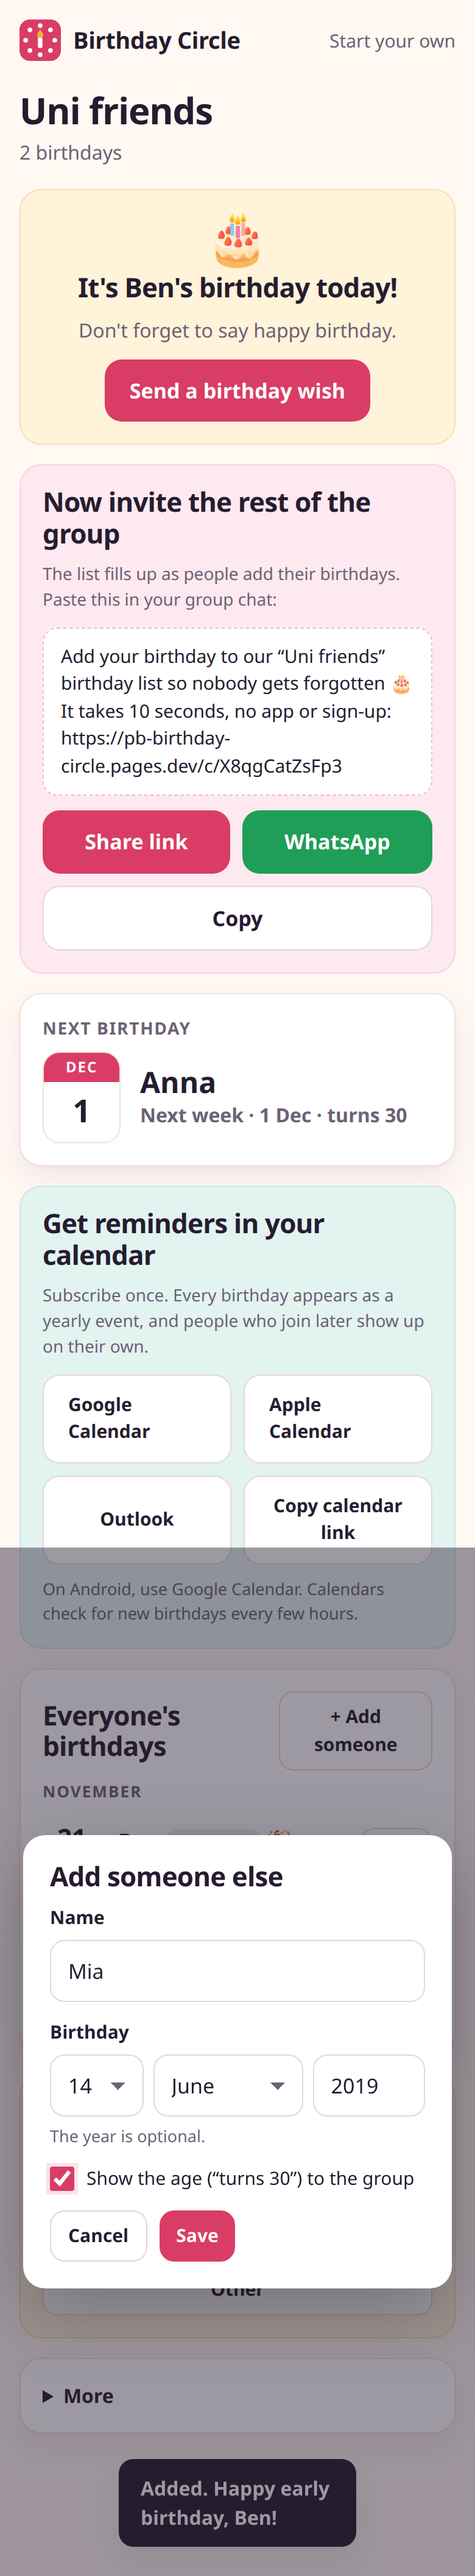
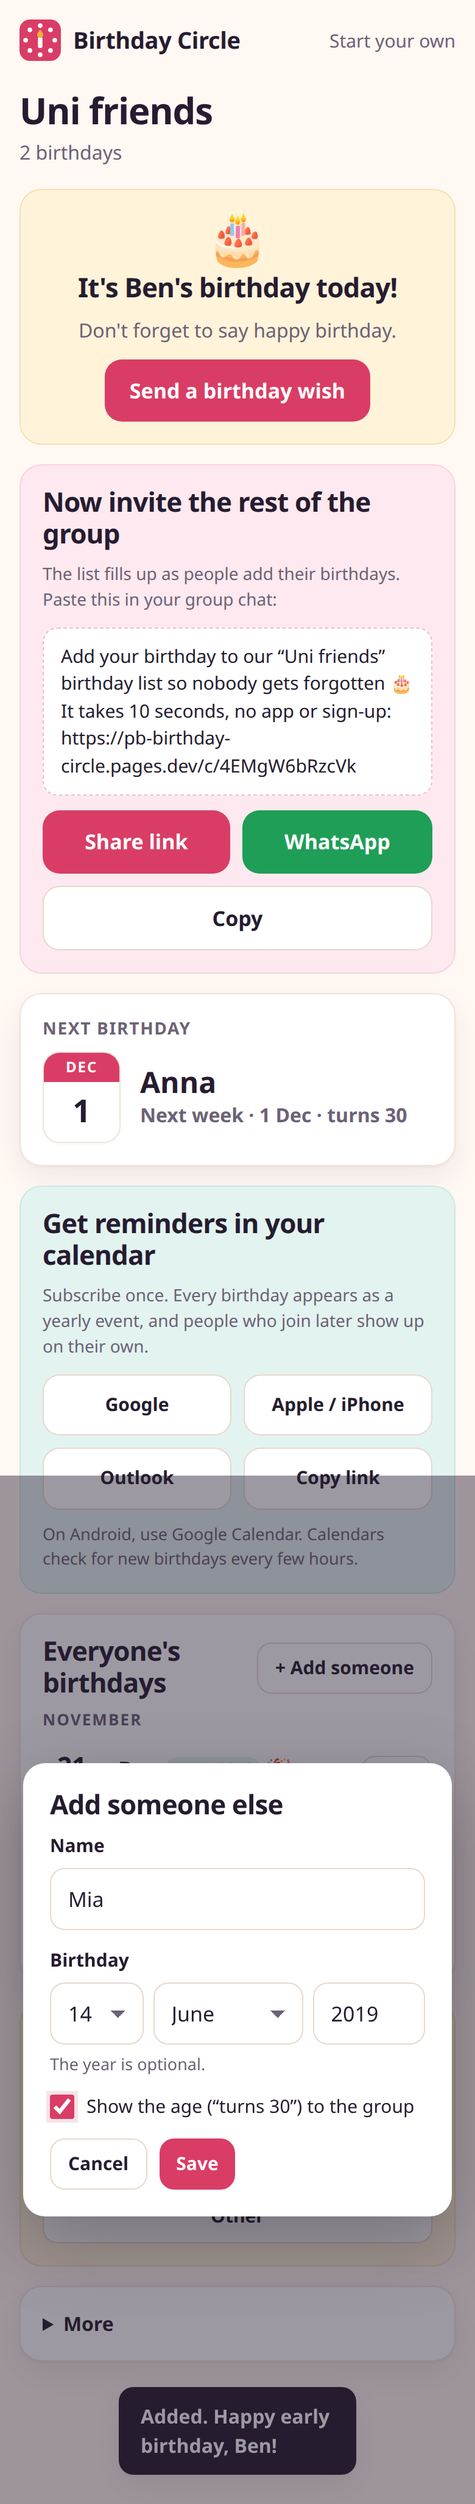
Phone layout fixes, launch notes in VENTURE.md

diff --git a/docs/app.css b/docs/app.css
@@ -82,7 +82,7 @@ input:focus, select:focus { outline: none; border-color: var(--accent); box-shad
 .btn.block { width: 100%; }
 .btn.ghost { background: #fff; color: var(--ink); border: 1.5px solid #e6d8ce; }
 .btn.ghost:hover { background: #fdf4ef; }
-.btn.small { font-size: 15px; padding: 9px 14px; min-height: 42px; border-radius: 12px; }
+.btn.small { white-space: nowrap; font-size: 15px; padding: 9px 14px; min-height: 42px; border-radius: 12px; }
 .btn.whatsapp { background: #1f9e57; }
 .btn.whatsapp:hover { background: #17864a; }
 .linkbtn { background: none; border: 0; padding: 0; font: inherit; color: var(--accent-dark); text-decoration: underline; cursor: pointer; }
@@ -143,7 +143,7 @@ input:focus, select:focus { outline: none; border-color: var(--accent); box-shad
 #shareCard.compact .share-hint, #shareCard.compact .share-text { display: none; }
 #shareCard.compact .btn { font-size: 15px; min-height: 42px; padding: 9px 14px; }
 .cal-buttons { display: grid; grid-template-columns: 1fr 1fr; gap: 10px; margin-bottom: 10px; }
-.cal-buttons .btn { font-size: 15px; }
+.cal-buttons .btn { font-size: 15px; white-space: nowrap; }
 .toast { position: fixed; left: 50%; bottom: 24px; transform: translateX(-50%); background: var(--ink); color: #fff; padding: 12px 18px; border-radius: 12px; font-weight: 600; z-index: 50; box-shadow: var(--shadow); max-width: calc(100% - 32px); }
 dialog { border: 0; border-radius: var(--radius); padding: 22px; width: min(480px, calc(100% - 24px)); box-shadow: 0 20px 60px rgba(0,0,0,.25); color: var(--ink); }
 dialog::backdrop { background: rgba(38, 28, 48, .45); }

diff --git a/public/app.css b/public/app.css
@@ -82,7 +82,7 @@ input:focus, select:focus { outline: none; border-color: var(--accent); box-shad
 .btn.block { width: 100%; }
 .btn.ghost { background: #fff; color: var(--ink); border: 1.5px solid #e6d8ce; }
 .btn.ghost:hover { background: #fdf4ef; }
-.btn.small { font-size: 15px; padding: 9px 14px; min-height: 42px; border-radius: 12px; }
+.btn.small { white-space: nowrap; font-size: 15px; padding: 9px 14px; min-height: 42px; border-radius: 12px; }
 .btn.whatsapp { background: #1f9e57; }
 .btn.whatsapp:hover { background: #17864a; }
 .linkbtn { background: none; border: 0; padding: 0; font: inherit; color: var(--accent-dark); text-decoration: underline; cursor: pointer; }
@@ -143,7 +143,7 @@ input:focus, select:focus { outline: none; border-color: var(--accent); box-shad
 #shareCard.compact .share-hint, #shareCard.compact .share-text { display: none; }
 #shareCard.compact .btn { font-size: 15px; min-height: 42px; padding: 9px 14px; }
 .cal-buttons { display: grid; grid-template-columns: 1fr 1fr; gap: 10px; margin-bottom: 10px; }
-.cal-buttons .btn { font-size: 15px; }
+.cal-buttons .btn { font-size: 15px; white-space: nowrap; }
 .toast { position: fixed; left: 50%; bottom: 24px; transform: translateX(-50%); background: var(--ink); color: #fff; padding: 12px 18px; border-radius: 12px; font-weight: 600; z-index: 50; box-shadow: var(--shadow); max-width: calc(100% - 32px); }
 dialog { border: 0; border-radius: var(--radius); padding: 22px; width: min(480px, calc(100% - 24px)); box-shadow: 0 20px 60px rgba(0,0,0,.25); color: var(--ink); }
 dialog::backdrop { background: rgba(38, 28, 48, .45); }

diff --git a/public/circle.html b/public/circle.html
@@ -40,7 +40,7 @@
         <div class="error" id="joinError" role="alert"></div>
         <button class="btn block" id="joinBtn" type="submit">Add my birthday</button>
       </form>
-      <p class="small muted" style="margin-top:12px">Already added yours on another phone? Open your personal link from there (in “More”, at the bottom).</p>
+      <p class="small muted" style="margin-top:12px">Added yours on another phone already? Open “More” there and use your personal link.</p>
     </div>
 
     <div id="shareCard" class="card tint" hidden>
@@ -60,10 +60,10 @@
       <h2>Get reminders in your calendar</h2>
       <p class="muted small">Subscribe once. Every birthday appears as a yearly event, and people who join later show up on their own.</p>
       <div class="cal-buttons">
-        <a class="btn ghost" id="calGoogle" target="_blank" rel="noopener">Google Calendar</a>
-        <a class="btn ghost" id="calApple">Apple Calendar</a>
+        <a class="btn ghost" id="calGoogle" target="_blank" rel="noopener">Google</a>
+        <a class="btn ghost" id="calApple">Apple / iPhone</a>
         <a class="btn ghost" id="calOutlook" target="_blank" rel="noopener">Outlook</a>
-        <button class="btn ghost" id="calCopy" type="button">Copy calendar link</button>
+        <button class="btn ghost" id="calCopy" type="button">Copy link</button>
       </div>
       <p class="hint">On Android, use Google Calendar. Calendars check for new birthdays every few hours.</p>
     </div>

diff --git a/VENTURE.md b/VENTURE.md
@@ -1,10 +1,10 @@
 ---
 slug: birthday-circle
-stage: idea
+stage: launched
 priority: 4
-url:
-repo:
-updated: 2026-11-20
+url: https://pb-birthday-circle.pages.dev
+repo: https://github.com/janwan2003/birthday-circle
+updated: 2026-11-21
 ---
 
 # birthday-circle
@@ -62,6 +62,11 @@ Searches run 2026-11-20. Sources are search-result summaries, not opened pages.
 - **How people do it today:** a pinned message or Google Sheet in the group, or the class parents'
   list kept by one person.
 - Search volume not measured.
+- **Checked 2026-11-21 (pages opened by a fetch agent):** hoera.app is alive (homepage loads, AlternativeTo entry updated
+  6 Oct 2026). Joining needs an email address plus a 6-digit code; reminders are a weekly email, WhatsApp reminders are paid;
+  no .ics feed mentioned. Hurrayy's Product Hunt launch is from 2024 with no recent activity (app itself not opened).
+  birthdaycalendar.app is an unrelated single-user iOS app. A search for "group birthday calendar link ... ics subscribe"
+  found no tool where members self-enter into one shared calendar feed.
 
 ## Our edge
 
@@ -72,6 +77,8 @@ Searches run 2026-11-20. Sources are search-result summaries, not opened pages.
   1.5 line, so the priority-4 rating is borderline. Weakest factor: join rate in large, loose groups
   (classes of 25+).
 - Self-entry through one link, where solo apps make one person type everyone in.
+- Versus Hoera (the only live direct competitor found): no email at all (Hoera needs email + code), and a live calendar
+  subscription instead of a weekly email. English-first.
 - Calendar subscription (.ics) means reminders arrive in the calendar people already use.
   No app and no push permissions needed.
 - Privacy: birth year optional and hidden by default. No contact import. Unguessable links.
@@ -81,19 +88,63 @@ Searches run 2026-11-20. Sources are search-result summaries, not opened pages.
 
 ## Status
 
-Idea only. Nothing built. Evidence is the web searches of 2026-11-20 listed above. Hoera's and
-Hurrayy's current activity is not verified.
+**Live: https://pb-birthday-circle.pages.dev** (brand: **Birthday Circle**). Product page + support on GitHub Pages:
+https://janwan2003.github.io/birthday-circle/ (privacy policy at /privacy on the live site). Search Console: site verified
+(META), added and sitemap submitted 2026-11-21 (`scripts/gsc.py`).
+
+What exists and works (Cloudflare Pages + Functions + D1 `pb-birthday-circle`, free plan, no build step):
+- Landing page with create form (group name, your name, birthday; or "I'm only organising"). One link per circle
+  (`/c/<12-char random id>`).
+- Circle page: join form for anyone without an entry on this device (name, day, month, optional year, "show my age"),
+  list sorted by next birthday and grouped by month, "Next birthday" card, today banner with "Send a birthday wish",
+  invite card (Share sheet / WhatsApp / Copy, full after create or join, compact on later visits),
+  "+ Add someone" for children, partners, grandparents, "Make one for your other groups" (prefills the name: the
+  joiner → creator step), "Your circles" list on the home page.
+- Calendar feed `/c/<id>/birthdays.ics` (yearly all-day events, 29 Feb → last day of Feb, 9:00 alarm, 15-min edge cache),
+  with one-tap Google / Apple (webcal) / Outlook subscribe links.
+- Link preview per circle: "Uni friends · Birthday Circle", "4 birthdays so far · next up: Ben, today. Add yours in 10 seconds".
+  Static og.png (1200x630).
+- Permissions: random per-device token (only its SHA-256 stored); you edit/remove what you added; the creator can rename,
+  edit/remove any entry and delete the circle; personal link (`#k=`) signs in another device and is stripped from the URL.
+  Hidden birth years never leave the server (not in the API, not in the feed), and survive an organiser's edit.
+- Rate limits per hashed IP in D1 (create 20/h, add 60/h, writes 300/h); max 300 birthdays per circle, 12 per device;
+  circles inactive for 400 days are deleted; CSP + security headers; /c/ and /api/ disallowed in robots.txt and noindex.
+
+Verified 2026-11-21:
+- `node --test tests/unit/*.test.js`: 7/7 pass (next birthday incl. leap day, validation, sorting/ages, text, ICS escaping,
+  75-octet folding, feed structure).
+- `tests/e2e/run.mjs` in real Chromium (6 browser contexts, phone 390px and desktop 1280px) **passes locally and on
+  production** (last prod run on deploy 84e1496c): create with validation, 3 joins, 29 Feb in a non-leap year refused,
+  today-first ordering, hidden age not shown and not in the API, no hashes in the API, organiser sees Edit on all rows,
+  calendar links, duplicate refused (409), add someone else, edit own entry, Ben's token gets 403 deleting Anna's
+  entry, personal link on a second device, .ics has 5 events / leap rule / no hidden year, OG text before and after,
+  rename, remove, organiser edit keeps the hidden year, "Your circles", delete → 404, privacy page, zero console errors.
+  The test deletes its own circle; prod D1 had 0 circles / 0 members afterwards.
+- Production feed parsed with the Python `icalendar` library: leap day, emoji, accents, `;` `"` `,` in names, alarms OK.
+  HEAD and GET on the feed return `text/calendar`, `max-age=900`. Missing circle → 404 page.
+- Create rate limit checked locally: the 21st create in an hour → 429.
+- Screenshots checked by eye: landing (desktop), circle (phone, desktop), join form (phone), OG image, icon.
+  Fixed: oversized invite card on return visits, wrapping calendar and "+ Add someone" buttons on phones.
+
+Not covered yet: real iPhone/Android devices, a real Google/Apple/Outlook subscription to the production feed (the
+links are built to each service's documented URL format but were not clicked through while signed in), WhatsApp/iMessage
+preview rendering, other languages, per-circle OG image, load beyond a handful of users.
+
+## Metrics
+
+- 2026-11-21: launched today; 0 real circles (prod D1 `circles` = 0, `members` = 0 after the test cleaned up). Search
+  Console: verified today, no data yet.
 
 ## Next steps
 
-1. Open Hoera and Hurrayy and check whether they are alive, how join works, and what they lack.
-2. Measure search demand ("birthday reminder", "group birthday calendar", "birthday list template").
-3. Build `pb-birthday-circle` on Pages + D1: circle, member (name, day, month, optional year,
-   device token). `/c/<id>.ics` calendar feed served by a Function and cached.
-4. Weekly digest email only if a free sending route exists without an account (likely needs the
-   operator). Start with .ics only.
-5. Playwright e2e: create circle, 3 members join, list sorted by next birthday, .ics validates,
-   at phone and desktop width.
+1. Subscribe to a real production feed in Google Calendar (signed in, via Claude-in-Chrome) and Apple Calendar; confirm events,
+   the leap-day rule and refresh after a new join. This is the core promise and is untested end to end.
+2. Per-circle OG image (names of the next 3 birthdays as a calendar card) so the chat preview shows the list itself.
+3. Season hook: a "Family birthday calendar 2027" printable/PDF view of the circle (New Year is when people set this up).
+4. SEO landing pages for the searches this serves: "family birthday calendar", "team birthday list", "class birthday
+   list", "Facebook birthdays alternative". Measure in Search Console after 4-8 weeks.
+5. Other languages (German, Dutch, Polish, Spanish) once there is any usage; Hoera is Dutch-first.
+6. Optional reminders without a calendar (web push) only if users ask; the weekly email needs an operator account.
 
 ## Monetization plan
 
@@ -104,3 +155,7 @@ printable family birthday calendar (print-on-demand), and gift ideas. Never sell
 
 - 2026-11-20 scout: created idea. Evidence from web searches (Digital Trends, InsideHook, Quartz,
   Replit forum, AlternativeTo, App Store). Did not open competitor sites or measure search volume.
+- 2026-11-21 builder: checked evidence (Hoera alive but needs email + code and has no feed; Hurrayy stale), built and
+  launched Birthday Circle on Pages + D1 (pb-birthday-circle), GitHub repo + Pages product page, Search Console verified
+  + sitemap. Verified: unit 7/7, Chromium e2e passes locally and on prod deploy 84e1496c, prod feed parsed by `icalendar`,
+  local rate limit 429 on the 21st create, screenshots at 390px and 1280px checked.
